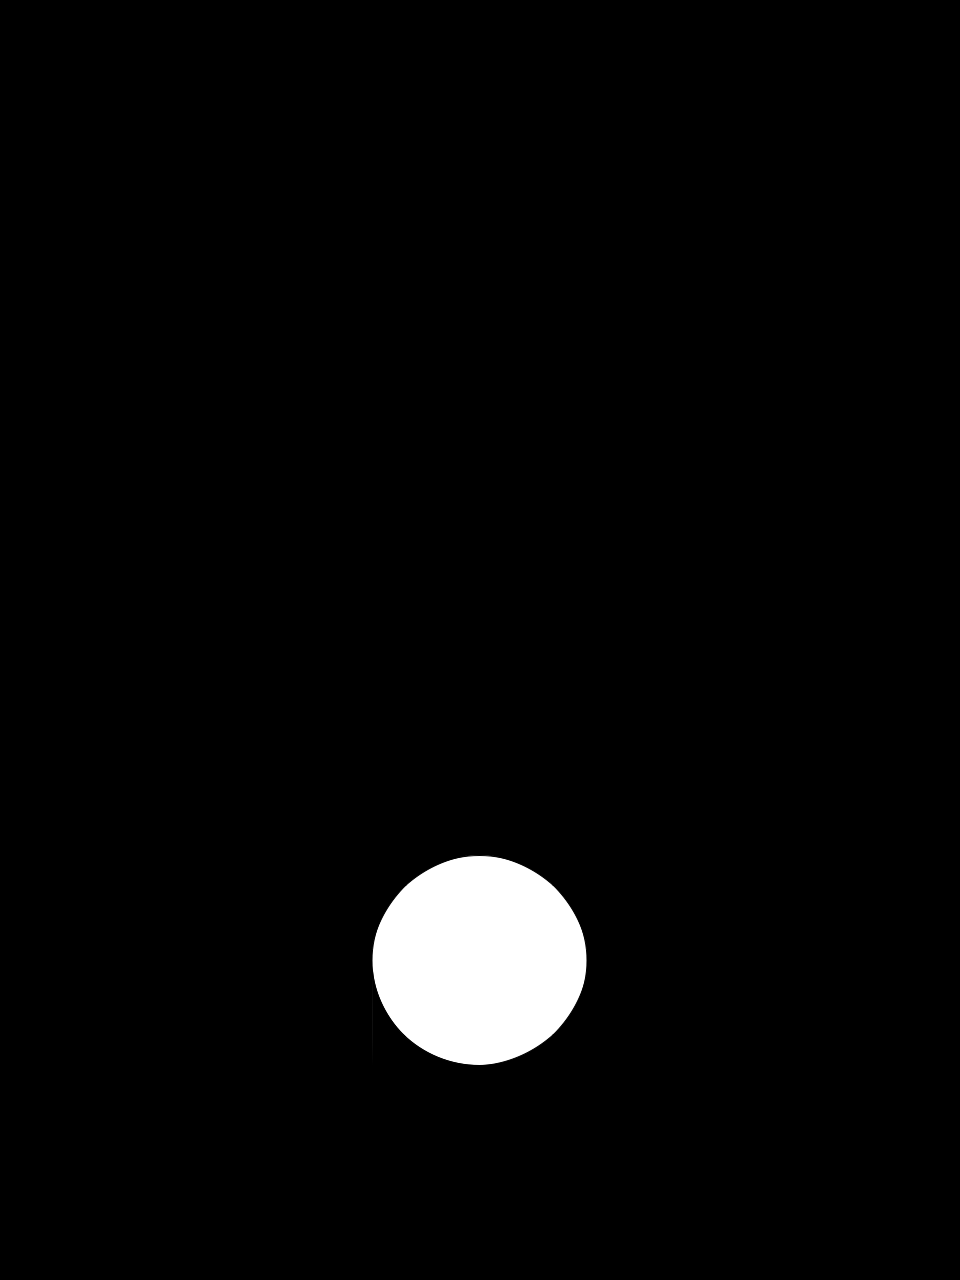
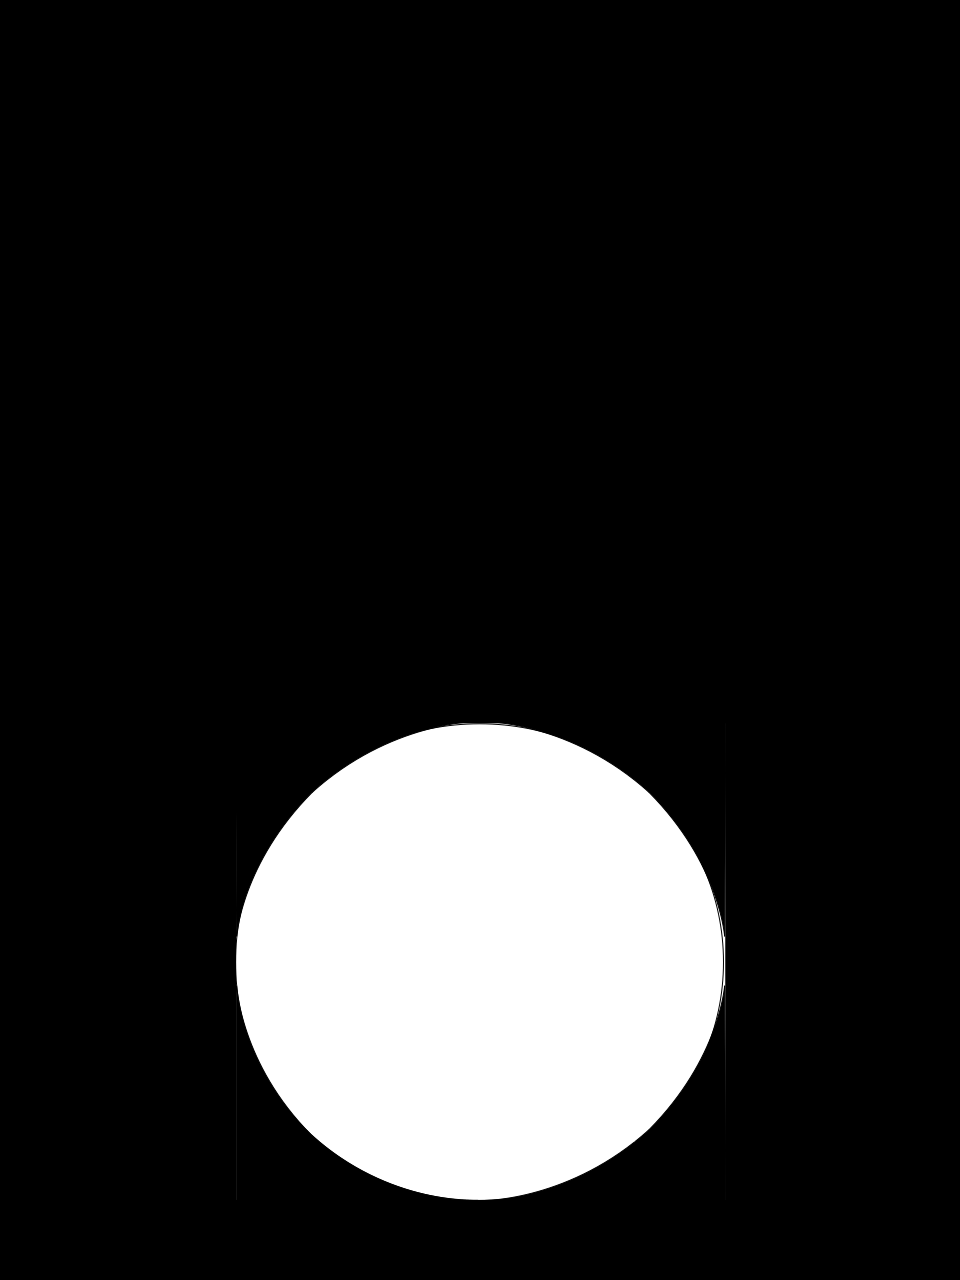
basic lighting.

Changed region(s): [[0.2188, 0.5625, 0.7812, 0.9375]]

diff --git a/js/screens/play.js b/js/screens/play.js
@@ -1,7 +1,8 @@
 game.PlayScreen = me.ScreenObject.extend({
-  /**  
-   *  action to perform on state change
-   */
+  init: function() {
+    this.parent(true);
+  },
+
   onResetEvent: function() {  
     me.levelDirector.loadLevel('level');
     me.input.bindKey(me.input.KEY.W, 'up');
@@ -12,14 +13,13 @@ game.PlayScreen = me.ScreenObject.extend({
     me.input.bindKey(me.input.KEY.LEFT, 'left');
     me.input.bindKey(me.input.KEY.DOWN, 'down');
     me.input.bindKey(me.input.KEY.RIGHT, 'right');
-
-    me.game.world.addChild(new game.Darkness(32, 32));
+    me.input.bindKey(me.input.KEY.TAB, 'flash', true);
+    me.input.bindKey(me.input.KEY.ENTER, 'flash', true);
+    this.darknessController = new game.DarknessController();
+    game.player = me.game.world.getEntityByProp('name', 'player')[0];
   },
   
   
-  /**  
-   *  action to perform when leaving this screen (state change)
-   */
   onDestroyEvent: function() {
     me.input.unbindKey(me.input.KEY.W);
     me.input.unbindKey(me.input.KEY.A);
@@ -29,5 +29,12 @@ game.PlayScreen = me.ScreenObject.extend({
     me.input.unbindKey(me.input.KEY.LEFT);
     me.input.unbindKey(me.input.KEY.DOWN);
     me.input.unbindKey(me.input.KEY.RIGHT);
+    me.input.unbindKey(me.input.KEY.TAB);
+    me.input.unbindKey(me.input.KEY.ENTER);
+  },
+
+  update: function() {
+    this.parent();
+    this.darknessController.update();
   }
 });

diff --git a/js/darkness_controller.js b/js/darkness_controller.js
@@ -1,0 +1,27 @@
+game.DarknessController = Object.extend({
+  init: function() {
+    this.dark = new game.Darkness(0, 0, 'dark');
+    this.light = new game.Darkness(0, 0, 'light');
+    me.game.world.addChild(this.dark);
+    me.game.world.addChild(this.light);
+    this.flashed = false;
+    this.flashedTime = me.timer.getTime()-10000;
+  },
+  update: function() {
+    if(me.input.isKeyPressed('flash')) {
+      if(!this.flashed && me.timer.getTime() - this.flashedTime > 10000) {
+        this.dark.renderable.alpha = 0;
+        this.flashed = true;
+        this.flashedTime = me.timer.getTime();
+      }
+    }
+    
+    if(this.flashed) {
+      var diff = (me.timer.getTime() - this.flashedTime);
+      this.dark.renderable.alpha = diff / 5000;
+      if(diff >= 10000) {
+        this.flashed = false;
+      }
+    }
+  }
+});

diff --git a/index.html b/index.html
@@ -1,7 +1,7 @@
 <!DOCTYPE HTML>
 <html>
   <head>
-  <title>melonJS Template</title>
+  <title>LD27 - The limits of light</title>
   <link rel="stylesheet" type="text/css" media="screen" href="index.css">
   <meta id="viewport" name="viewport" content="width=device-width, initial-scale=1, maximum-scale=1, user-scalable=no">
   <meta name="apple-mobile-web-app-capable" content="yes">
@@ -20,7 +20,7 @@
   <!-- Game Scripts -->
   <script type="text/javascript" src="js/game.js"></script>
   <script type="text/javascript" src="js/resources.js"></script>
-  
+  <script type="text/javascript" src="js/darkness_controller.js"></script>
   <script type="text/javascript" src="js/entities/player.js"></script>
   <script type="text/javascript" src="js/entities/darkness.js"></script>
 

diff --git a/js/entities/darkness.js b/js/entities/darkness.js
@@ -1,16 +1,22 @@
 game.Darkness = me.ObjectEntity.extend({
-  init: function(x, y) {
+  init: function(x, y, type) {
     var settings = {
       image: 'darkness',
       spritewidth: 960,
       spriteheight: 640
     };
     this.parent(x, y, settings);
+    this.renderable.addAnimation('dark', [0], 1);
+    this.renderable.addAnimation('light', [1], 1);
+    this.renderable.setCurrentAnimation(type);
     this.z = 200;
-    this.flashed = false;
+    if(type == 'light') this.z = 199;
+    this.alwaysUpdate = true;
   },
 
-  draw: function(ctx) {
-    ctx.fillRect(this.pos.x, this.pos.y, 32, 32);
+  update: function() {
+    this.pos.x = game.player.pos.x - this.width / 2 + 32;
+    this.pos.y = game.player.pos.y - this.height / 2 + 32;
+    return true;
   }
 });
